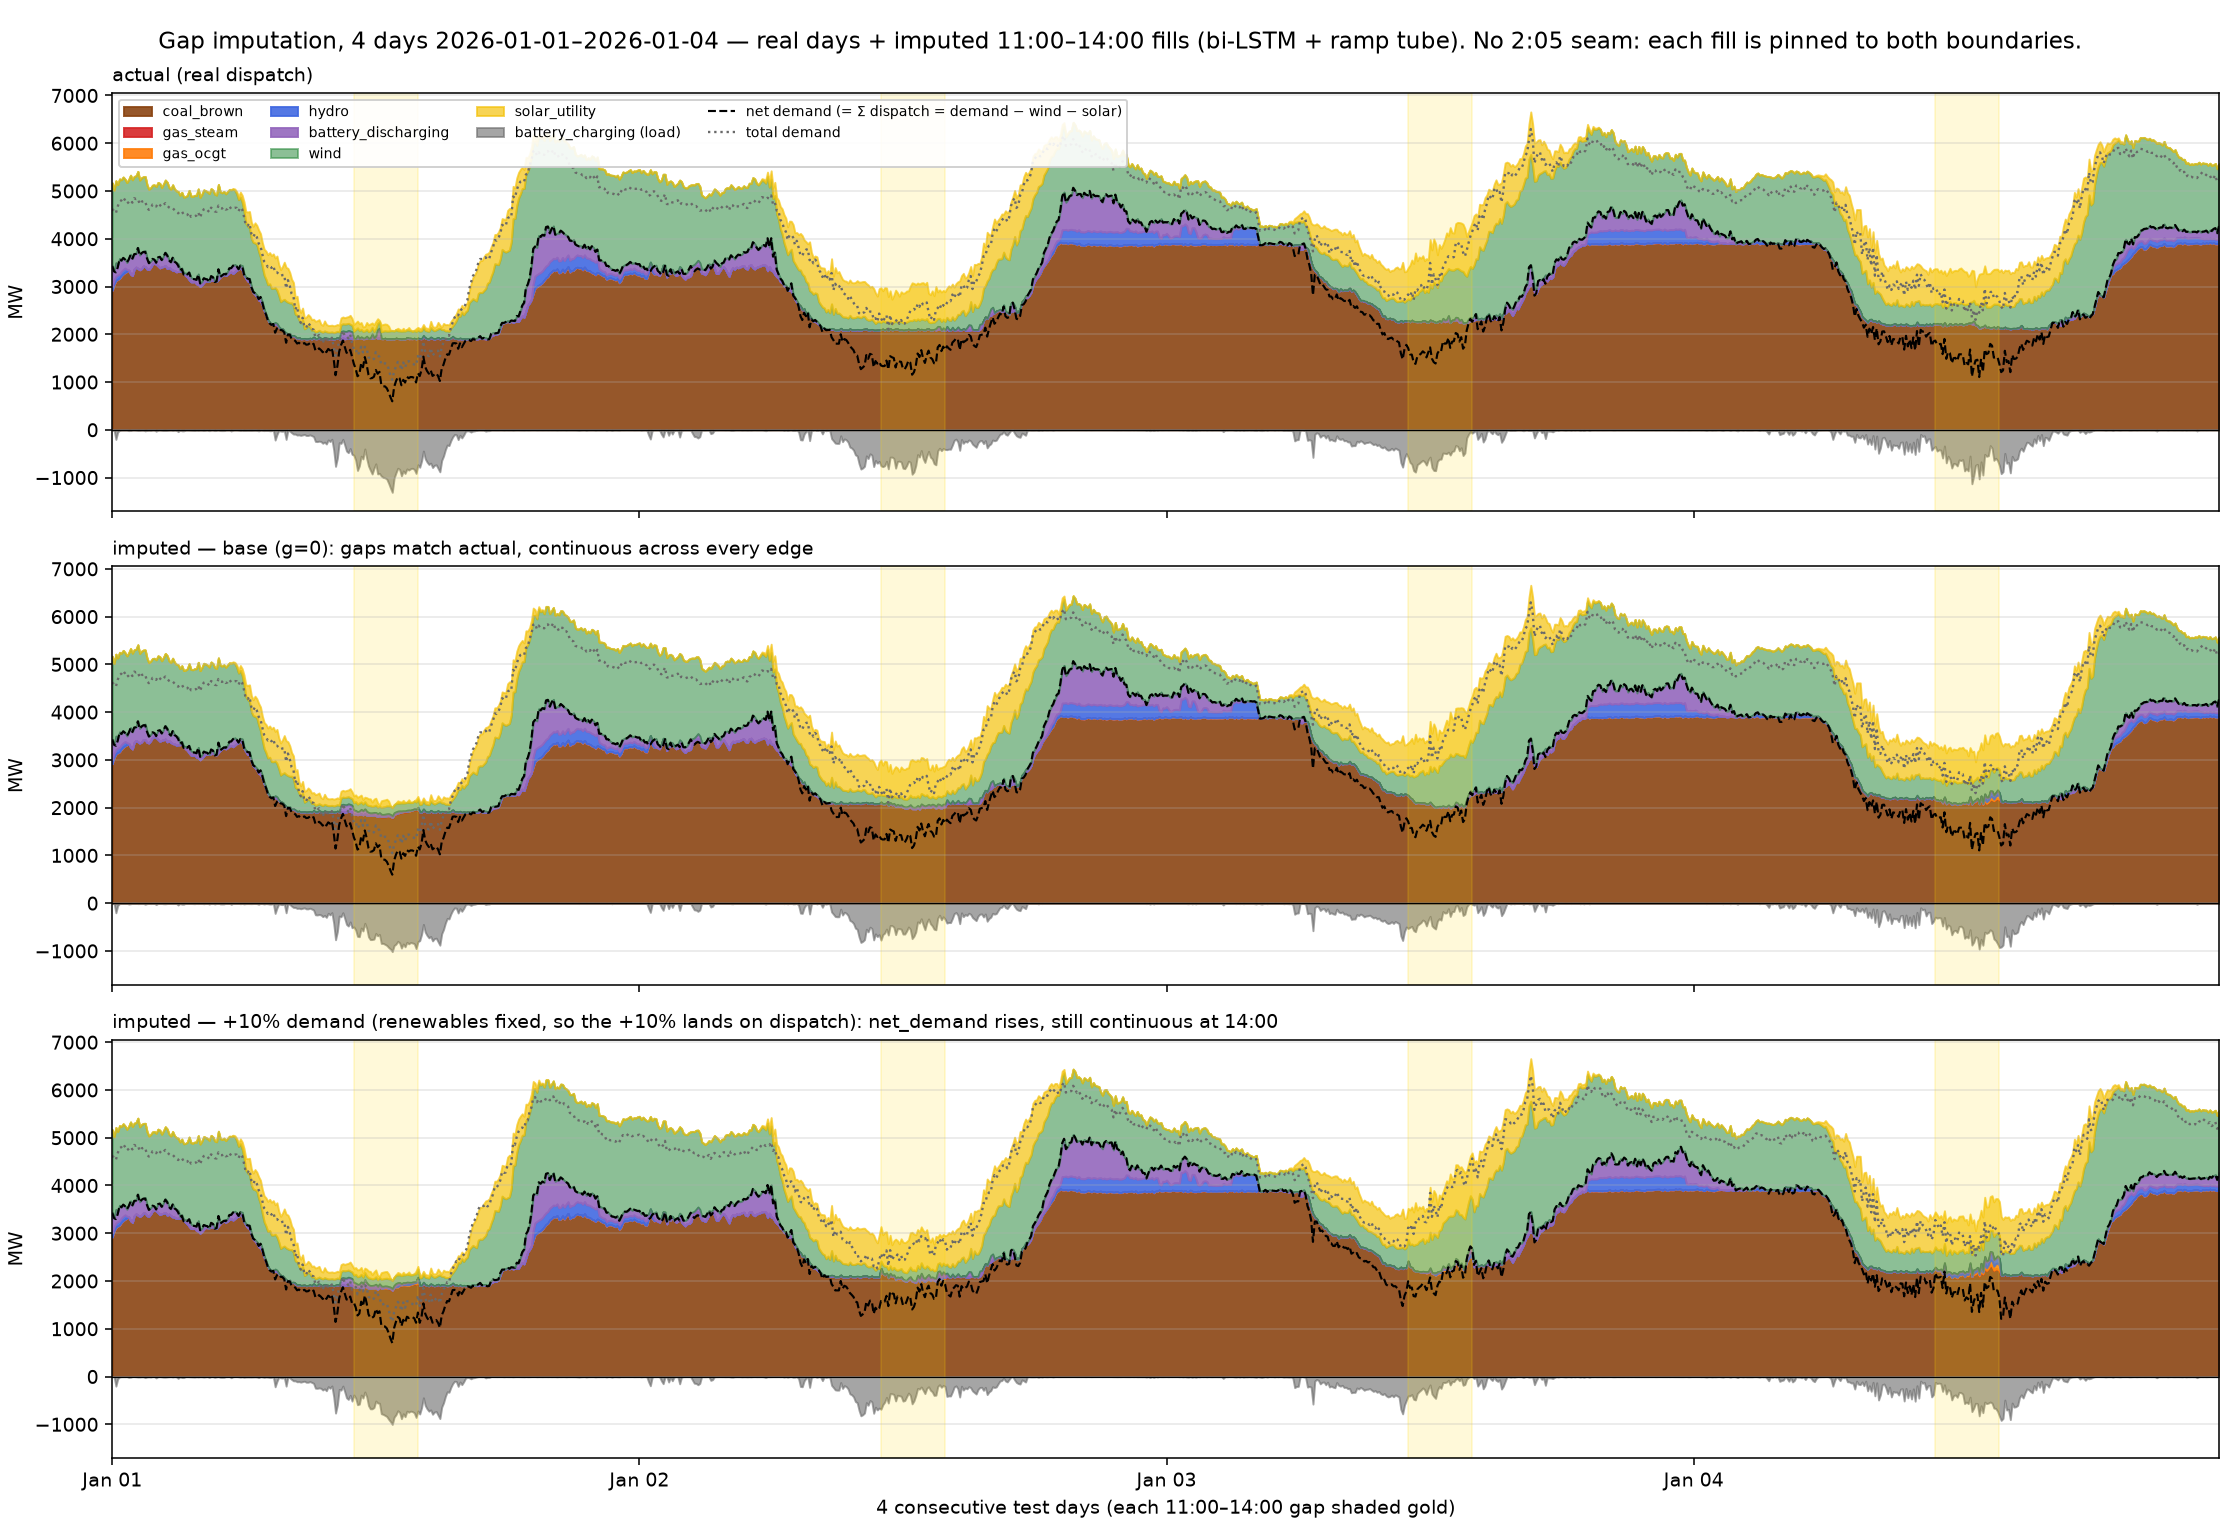
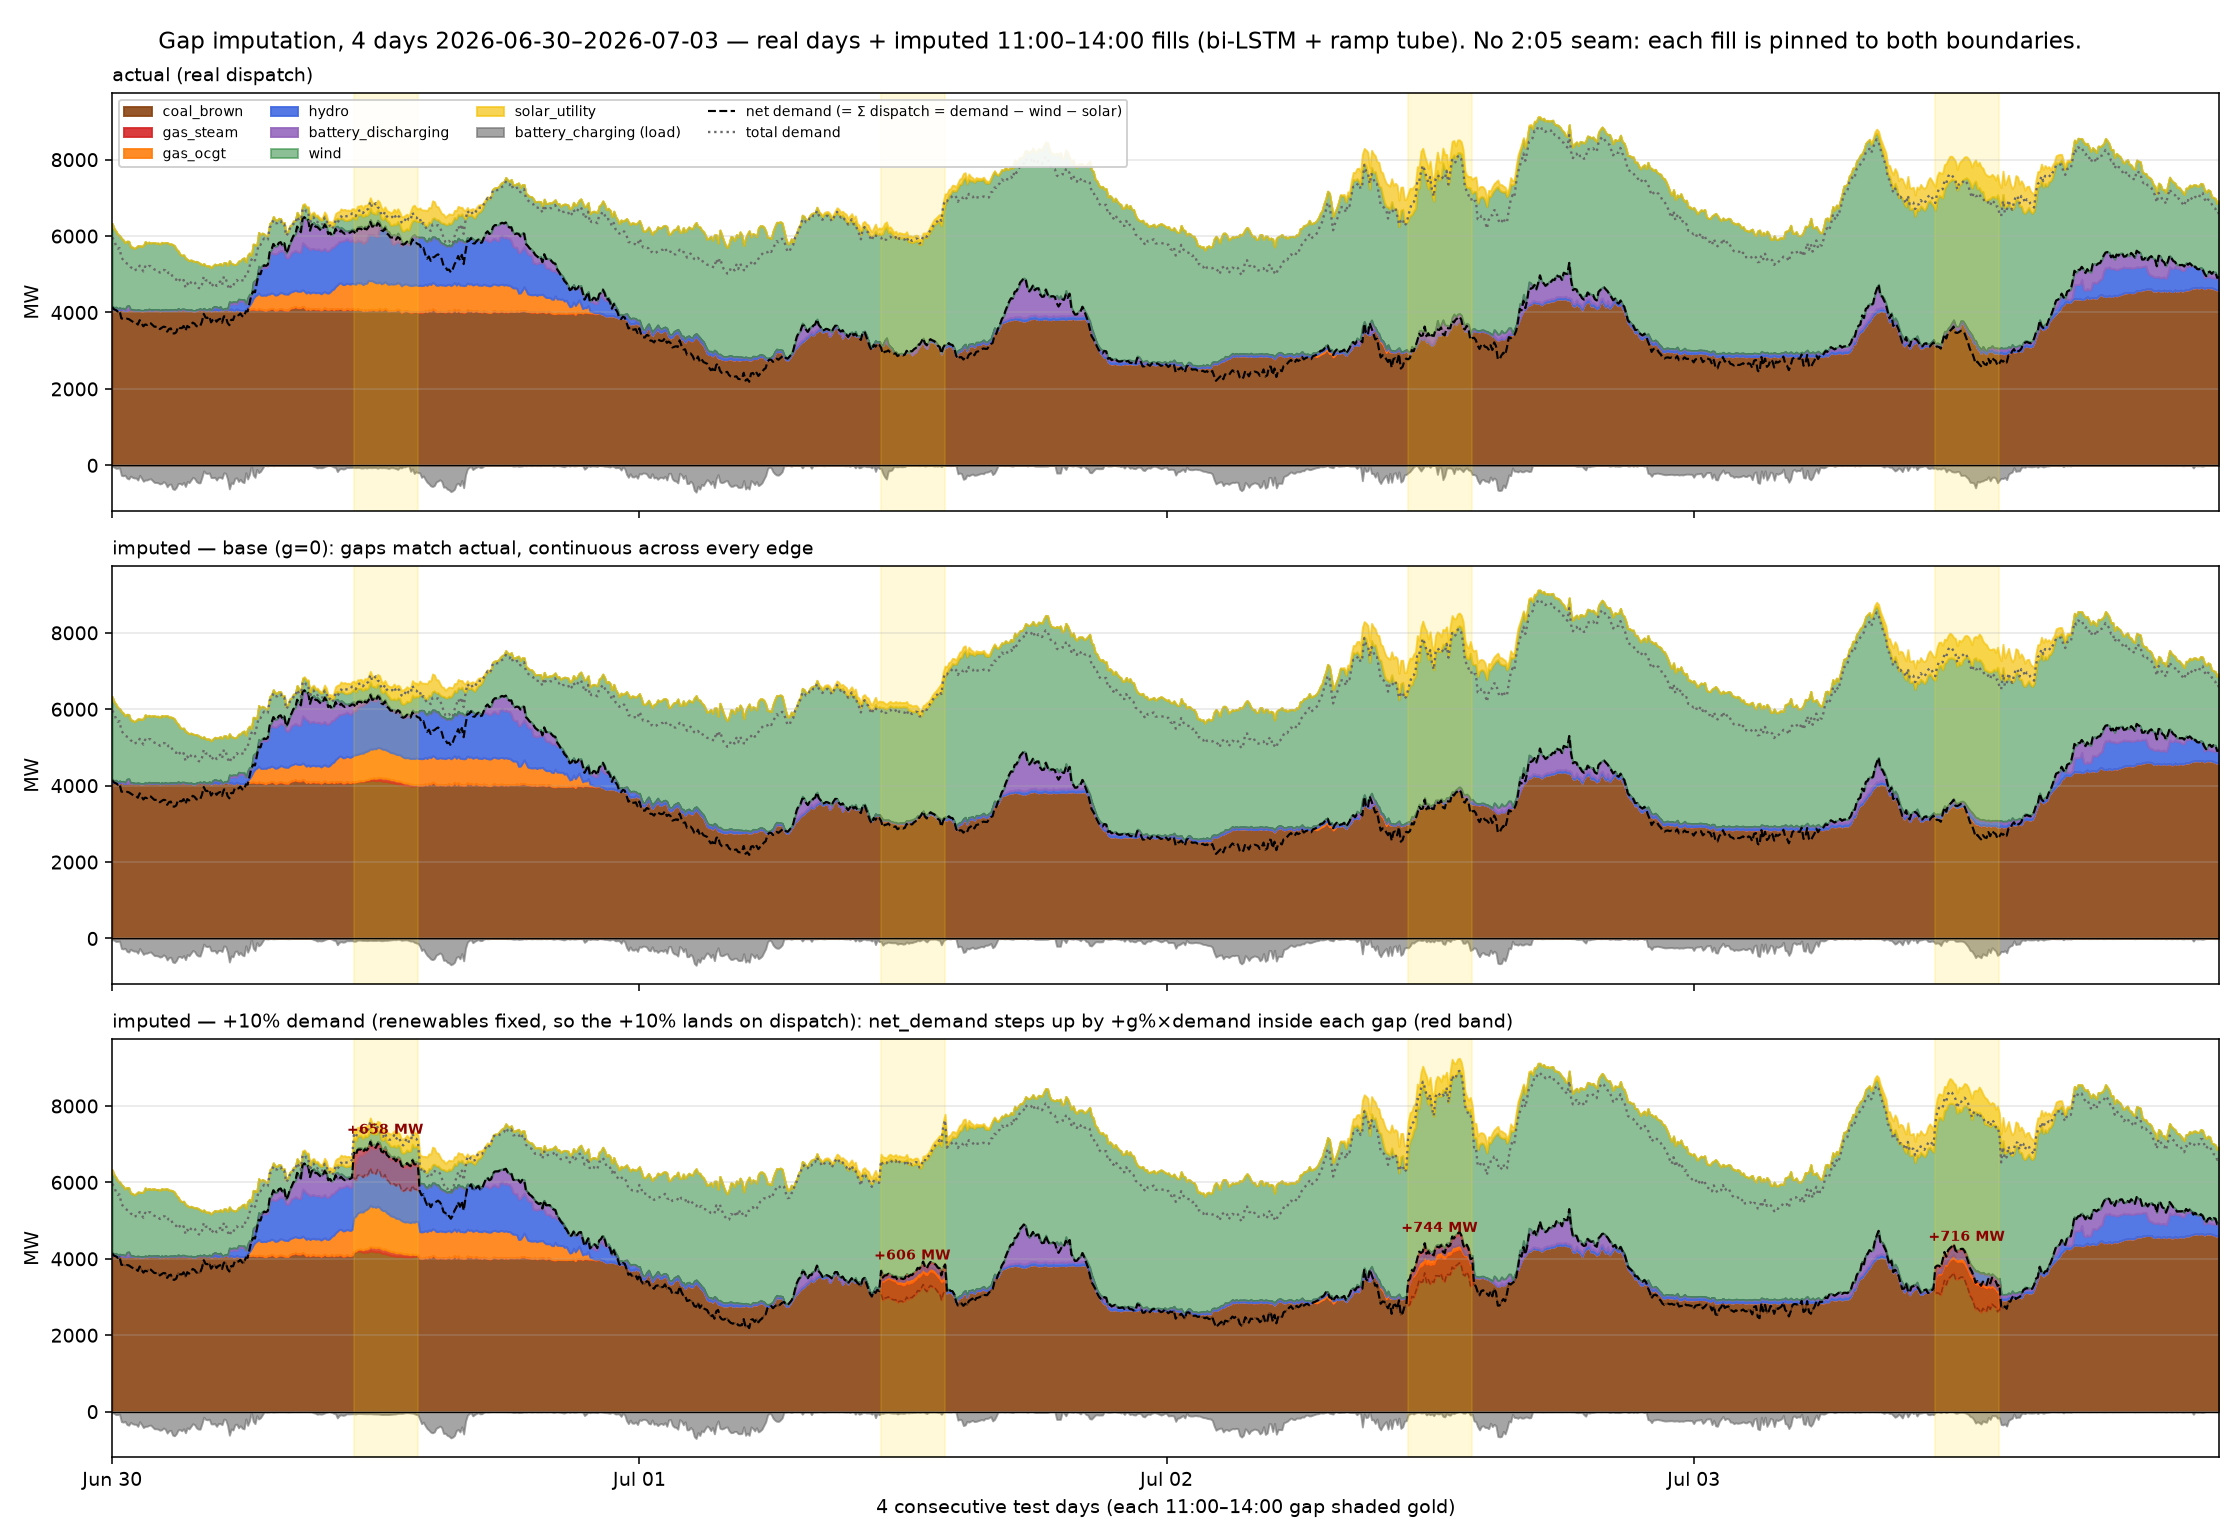
stack_gap: show the +g% net_demand rise clearly (was drawn on the Jan-1 trough)
Not a bug in the net_demand physics -- verified numerically that net_demand
rises by exactly +g%*demand in the gap (renewables fixed) and the projected
dispatch tracks it. The problem was the FIGURE: consecutive_days() grabbed the
calendar-first 4-day run, which is 2026-01-01 (New Year holiday, ~1450 MW
midday, the single lowest-demand day of all 186 test days). A +10% rise there
is only ~145 MW -- invisible on a 7000 MW axis.

Fixes:
- pick_run(mode="high", default): rank consecutive runs by median midday
  demand and plot the highest, so the +g% step is large (now Jun 30-Jul 03,
  rises of 606-744 MW). --pick first keeps the old calendar-first behaviour.
- draw(): in the +g% panel, overlay the base net_demand (faint dashed) and
  shade the added load (red band) inside each gap, annotated with the MW rise,
  so the response is visible WITHIN one panel with no cross-panel eyeballing.

Regenerated results/figure/stack_gap_4day_g10.png accordingly.

Claude-Session: https://claude.ai/code/session_01B6SBWVf5gHdsPkx9VKDeQg

diff --git a/imputation/stack_gap.py b/imputation/stack_gap.py
@@ -50,16 +50,35 @@ def load_renewables(stamps):
     return r["wind"].to_numpy(), r["solar_utility"].to_numpy()
 
 
-def consecutive_days(gws, n_days):
-    """First run of n_days calendar-consecutive gap-days."""
+def consecutive_runs(gws, n_days):
+    """All runs of n_days calendar-consecutive gap-days (each a list of GapWindow)."""
+    runs = []
     for i in range(len(gws) - n_days + 1):
         run = gws[i:i + n_days]
         if all((run[k + 1].day - run[k].day).days == 1 for k in range(n_days - 1)):
-            return run
-    raise SystemExit(f"no run of {n_days} consecutive test gap-days found")
+            runs.append(run)
+    if not runs:
+        raise SystemExit(f"no run of {n_days} consecutive test gap-days found")
+    return runs
 
 
-def draw(ax, t, disp, nd_line, demand_line, gaps, wind, solar):
+def pick_run(f, gws, n_days, mode="high", start=0):
+    """Choose which consecutive-day run to plot. mode='high' ranks runs by median
+    midday (11-14) demand and takes the highest -- the +g% rise is proportional to
+    demand, so a low-demand holiday week (e.g. Jan 1, ~1450 MW) makes a +10% step of
+    only ~145 MW that is invisible on a 7000 MW axis. mode='first' keeps the old
+    calendar-first behaviour. `start` skips that many runs in the chosen order."""
+    runs = consecutive_runs(gws, n_days)
+
+    def midday_demand(run):
+        return float(np.median([f.col_mw(f.Xte, 7)[gw.gap_idx].mean() for gw in run]))
+
+    if mode == "high":
+        runs = sorted(runs, key=midday_demand, reverse=True)
+    return runs[min(start, len(runs) - 1)]
+
+
+def draw(ax, t, disp, nd_line, demand_line, gaps, wind, solar, nd_ref=None):
     ti = {s: i for i, s in enumerate(TARGETS)}
     base = np.zeros(len(t))
     for k in STACK:
@@ -73,6 +92,19 @@ def draw(ax, t, disp, nd_line, demand_line, gaps, wind, solar):
     ax.fill_between(t, base + wind, base + wind + solar, color=sp.SOLAR, alpha=0.7, label="solar_utility")
     ax.fill_between(t, 0, -disp[:, ti["battery_charging"]], color=sp.COLORS["battery_charging"],
                     alpha=0.6, label="battery_charging (load)")
+    # In the +g% panel, overlay the BASE net_demand (faint) and shade the added load
+    # inside each gap, so the rise is visible WITHIN this one panel (no cross-panel
+    # eyeballing needed). nd_ref is the g=0 net_demand; nd_line is the raised one.
+    if nd_ref is not None:
+        ax.plot(t, nd_ref, color="k", ls="--", lw=0.8, alpha=0.3)
+        for j, (p0, p1) in enumerate(gaps):
+            s = slice(p0, p1 + 1)
+            ax.fill_between(t[s], nd_ref[s], nd_line[s], color="red", alpha=0.30,
+                            label="added load (+g% demand)" if j == 0 else None)
+            mid = (p0 + p1) // 2
+            rise = nd_line[s].mean() - nd_ref[s].mean()
+            ax.annotate(f"+{rise:.0f} MW", (mid, nd_line[mid]), textcoords="offset points",
+                        xytext=(0, 8), ha="center", fontsize=7, color="darkred", weight="bold")
     ax.plot(t, nd_line, "k--", lw=1.1, label="net demand (= Σ dispatch = demand − wind − solar)")
     ax.plot(t, demand_line, color="dimgray", ls=":", lw=1.2, label="total demand")
     for p0, p1 in gaps:
@@ -85,13 +117,17 @@ def main():
     ap.add_argument("--days", type=int, default=4)
     ap.add_argument("--g", type=float, default=10.0)
     ap.add_argument("--context", type=int, default=48)
+    ap.add_argument("--pick", choices=["high", "first"], default="high",
+                    help="'high' (default): the highest-midday-demand consecutive run, "
+                         "so the +g%% rise is large and visible; 'first': calendar-first "
+                         "(warning: that is the Jan-1 holiday trough, ~145 MW rise).")
     ap.add_argument("--start", type=int, default=0, help="skip this many candidate runs")
     ap.add_argument("--ckpt", default=str(HERE / "results" / "bilstm_imputer.pt"))
     args = ap.parse_args()
 
     f = load_flats()
     gws = test_gap_windows(f, context=args.context)
-    run = consecutive_days(gws[args.start:], args.days)
+    run = pick_run(f, gws, args.days, mode=args.pick, start=args.start)
     model = BiLSTMImputer(); model.load_state_dict(torch.load(args.ckpt, map_location="cpu")); model.eval()
 
     # full-day flat rows for the N-day span
@@ -116,12 +152,14 @@ def main():
     wind, solar = load_renewables(stamps)                 # weather-driven, fixed across panels
     t = np.arange(len(disp))
     f2, axes = plt.subplots(3, 1, figsize=(16, 11), sharex=True, sharey=True)
-    for ax, (name, d, ndl, deml) in zip(axes, [
-            ("actual (real dispatch)", disp, nd, demand),
-            ("imputed — base (g=0): gaps match actual, continuous across every edge", base_fill, nd, demand),
-            (f"imputed — +{args.g:g}% demand (renewables fixed, so the +{args.g:g}% lands on "
-             "dispatch): net_demand rises, still continuous at 14:00", scen_fill, nd_scen, demand_scen)]):
-        draw(ax, t, d, ndl, deml, gaps, wind, solar)
+    panels = [
+        ("actual (real dispatch)", disp, nd, demand, None),
+        ("imputed — base (g=0): gaps match actual, continuous across every edge", base_fill, nd, demand, None),
+        (f"imputed — +{args.g:g}% demand (renewables fixed, so the +{args.g:g}% lands on "
+         "dispatch): net_demand steps up by +g%×demand inside each gap (red band)",
+         scen_fill, nd_scen, demand_scen, nd)]           # last panel: nd_ref = base net_demand
+    for ax, (name, d, ndl, deml, ndref) in zip(axes, panels):
+        draw(ax, t, d, ndl, deml, gaps, wind, solar, nd_ref=ndref)
         ax.set_title(name, loc="left", fontsize=10); ax.set_ylabel("MW")
     day_starts = [np.searchsorted(pos, np.where(idx.normalize() == d)[0][0]) for d in sorted(day_set)]
     axes[2].set_xticks(day_starts)